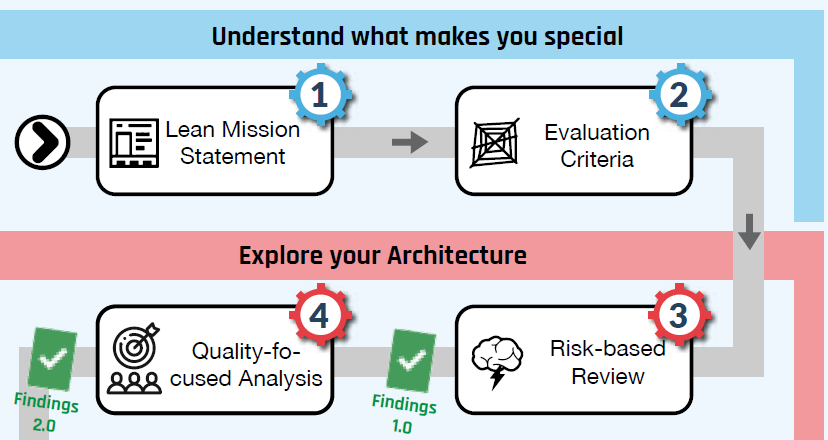
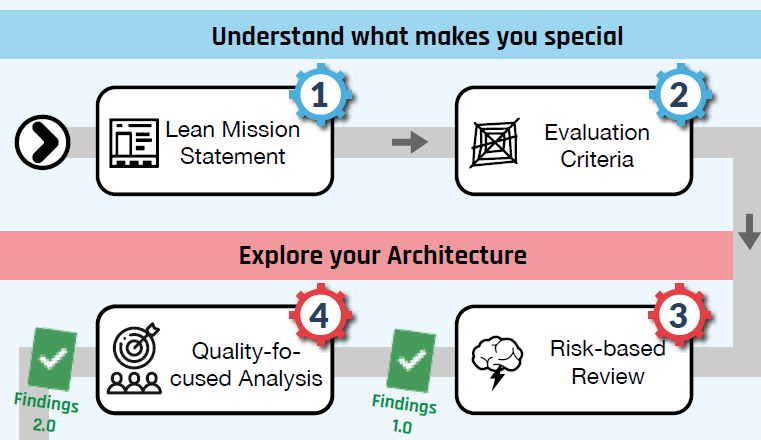
LASR Setup

Changed region(s): [[0.0, 0.0, 1.0, 1.0], [0.2418, 0.0591, 0.816, 0.1182], [0.272, 0.5614, 0.6951, 0.6205]]

diff --git a/docs/slides/slide-29.html b/docs/slides/slide-29.html
@@ -3,40 +3,50 @@
     <div class="slide-header">
         <h2>LASR &mdash; Overview</h2>
     </div>
-    <div class="slide-body" style="display:flex; flex-direction:column; gap:1.2%; bottom:8%;">
+    <div class="slide-body" style="display:flex; gap:1.5%; bottom:8%;">
 
-        <!-- Row 1: LASR Core Review -->
-        <div style="flex:1; display:flex; align-items:center; gap:1.5%; min-height:0;">
-            <div style="flex:0 0 18%; display:flex; align-items:center; justify-content:flex-end; gap:0.3em;">
-                <div style="text-align:right; font-family:'Karla',sans-serif; line-height:1.15;">
+        <!-- Left: two stacked labels -->
+        <div style="flex:0 0 24%; display:flex; flex-direction:column; min-height:0;">
+
+            <div style="flex:1; display:flex; align-items:center; justify-content:flex-end; gap:0.3em;">
+                <div style="text-align:right; font-family:'Karla',sans-serif; line-height:1.15; white-space:nowrap;">
                     <div style="font-weight:700; font-size:0.95em; color:#1B1B1B;">LASR</div>
                     <div style="font-size:0.65em; color:#1B1B1B;">(Core Review)</div>
                 </div>
-                <span aria-hidden="true" style="font-family:'DM Sans',serif; font-weight:300; font-size:3.6em; line-height:0.6; color:#3390C3;">&#125;</span>
+                <span aria-hidden="true" style="font-family:'DM Sans',serif; font-weight:300; font-size:3.2em; line-height:0.6; color:#3390C3;">&#123;</span>
             </div>
-            <img src="./img/slide29-lasr-core.png"
-                 alt="LASR Core Review flow: 'Understand what makes you special' (Lean Mission Statement, Evaluation Criteria) followed by 'Explore your Architecture' (Risk-based Review, Quality-focused Analysis); produces Findings 1.0 and 2.0"
-                 style="flex:1; min-width:0; max-height:100%; height:100%; width:auto; object-fit:contain; align-self:center;">
-        </div>
 
-        <!-- Row 2: LASR+ Deep Dive -->
-        <div style="flex:1; display:flex; align-items:center; gap:1.5%; min-height:0;">
-            <div style="flex:0 0 18%; display:flex; align-items:center; justify-content:flex-end; gap:0.3em;">
-                <div style="text-align:right; font-family:'Karla',sans-serif; line-height:1.15;">
+            <div style="flex:1; display:flex; align-items:center; justify-content:flex-end; gap:0.3em;">
+                <div style="text-align:right; font-family:'Karla',sans-serif; line-height:1.15; white-space:nowrap;">
                     <div style="font-weight:700; font-size:1em; color:#1B1B1B;">LASR+</div>
                     <div style="font-size:0.65em; color:#1B1B1B;">(opt. Deep Dive)</div>
                 </div>
-                <span aria-hidden="true" style="font-family:'DM Sans',serif; font-weight:300; font-size:3.8em; line-height:0.6; color:#3390C3;">&#125;</span>
+                <span aria-hidden="true" style="font-family:'DM Sans',serif; font-weight:300; font-size:3.2em; line-height:0.6; color:#3390C3;">&#123;</span>
             </div>
-            <img src="./img/slide29-lasr-plus.png"
-                 alt="LASR+ optional deep dive: 'Dive for Pearls' (Maturity Boost, Tool-based Evaluation) followed by 'Explore the Surroundings' (Constraint Assessment, Organizational Fitness-Check); produces Findings 3.0 and 4.0"
-                 style="flex:1; min-width:0; max-height:100%; height:100%; width:auto; object-fit:contain; align-self:center;">
+
         </div>
 
-        <!-- Source attribution -->
-        <p style="margin:0; text-align:center; font-family:'Karla',sans-serif; font-size:0.32em; color:#666;">
-            source: <a href="https://www.lasr-reviews.org/cheat-sheet/">https://www.lasr-reviews.org/cheat-sheet/</a>
-        </p>
+        <!-- Right: two stacked images — same column width so edges align -->
+        <div style="flex:1; min-width:0; display:flex; flex-direction:column; gap:2%; min-height:0;">
+
+            <div style="flex:1; min-height:0; display:flex; align-items:center;">
+                <img src="./img/slide29-lasr-core.png"
+                     alt="LASR Core Review flow: 'Understand what makes you special' (Lean Mission Statement, Evaluation Criteria) followed by 'Explore your Architecture' (Risk-based Review, Quality-focused Analysis); produces Findings 1.0 and 2.0"
+                     style="width:100%; height:100%; object-fit:contain; object-position:left center; display:block;">
+            </div>
+
+            <div style="flex:1; min-height:0; display:flex; align-items:center;">
+                <img src="./img/slide29-lasr-plus.png"
+                     alt="LASR+ optional deep dive: 'Dive for Pearls' (Maturity Boost, Tool-based Evaluation) followed by 'Explore the Surroundings' (Constraint Assessment, Organizational Fitness-Check); produces Findings 3.0 and 4.0"
+                     style="width:100%; height:100%; object-fit:contain; object-position:left center; display:block;">
+            </div>
+
+            <p style="margin:0; text-align:left; font-family:'Karla',sans-serif; font-size:0.32em; color:#666; flex:0 0 auto;">
+                source: <a href="https://www.lasr-reviews.org/cheat-sheet/">https://www.lasr-reviews.org/cheat-sheet/</a>
+            </p>
+
+        </div>
+
     </div>
     <aside aria-label="speaker notes" class="notes">
         <ul>
